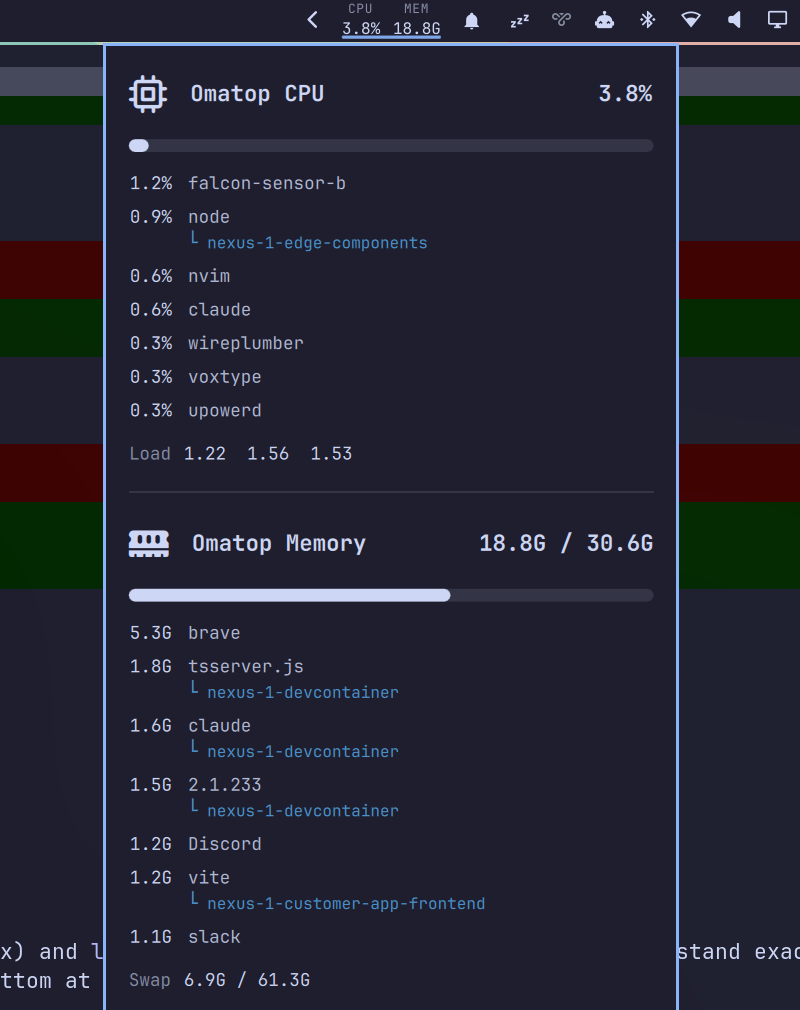
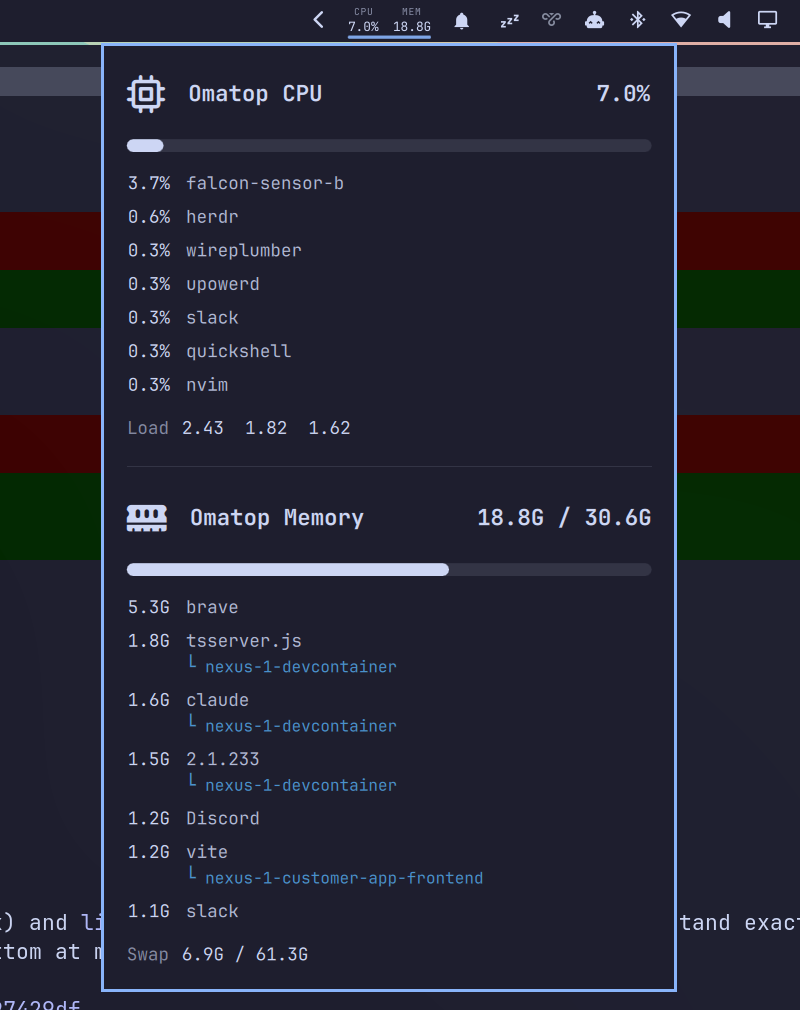
Shrink the bar captions so they sit padded in the bar

diff --git a/Panel.qml b/Panel.qml
@@ -160,8 +160,10 @@ Panel {
       color: root.bar ? root.bar.barForeground : Color.foreground
       opacity: 0.6
       font.family: root.bar ? root.bar.fontFamily : Style.font.family
-      font.pixelSize: Math.max(6, Style.font.caption - Style.space(2))
+      font.pixelSize: Math.max(5, Style.font.caption - Style.space(4))
       font.letterSpacing: 0.5
+      lineHeightMode: Text.FixedHeight
+      lineHeight: Math.max(6, Style.font.caption - Style.space(3))
       renderType: Text.NativeRendering
     }
 
@@ -172,7 +174,9 @@ Panel {
       text: meterLabel.value !== "" ? meterLabel.value : "—"
       color: root.bar ? root.bar.barForeground : Color.foreground
       font.family: root.bar ? root.bar.fontFamily : Style.font.family
-      font.pixelSize: Style.font.caption
+      font.pixelSize: Math.max(7, Style.font.caption - Style.space(2))
+      lineHeightMode: Text.FixedHeight
+      lineHeight: Math.max(8, Style.font.caption - Style.space(1))
       renderType: Text.NativeRendering
     }
   }
